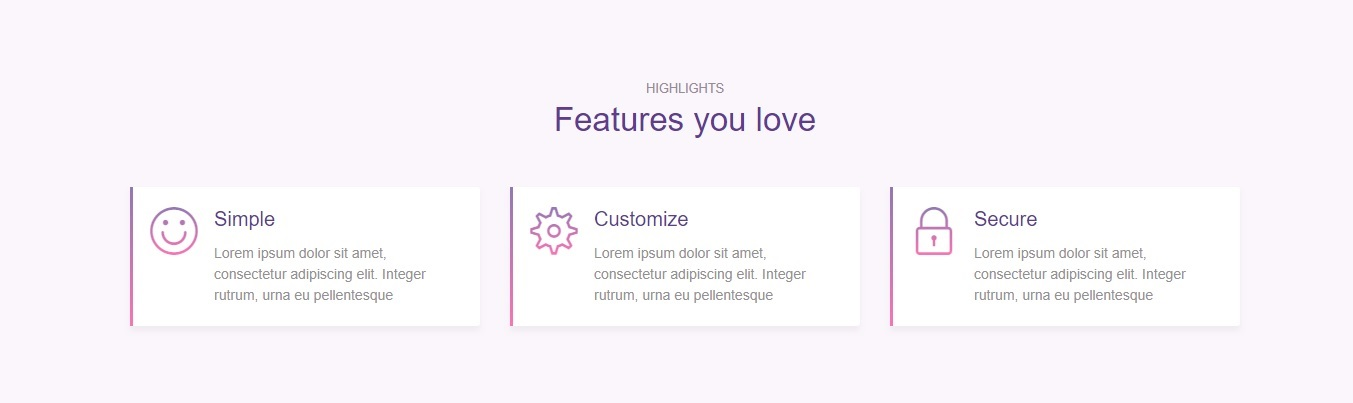
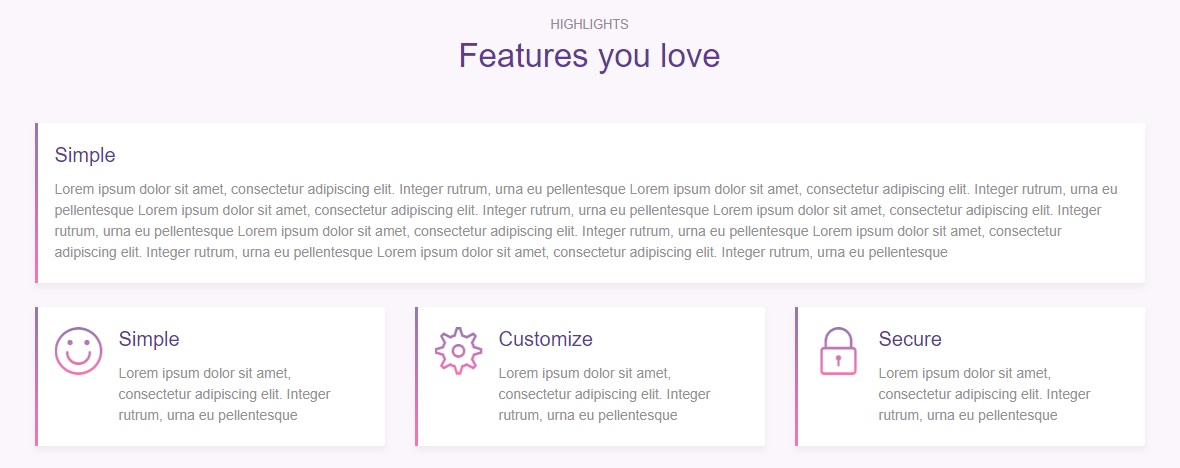
[VERSION] 1.1.0

diff --git a/Resources/Private/Templates/Base/Configuration.html b/Resources/Private/Templates/Base/Configuration.html
@@ -115,9 +115,9 @@
 			<div class="row">
 				<div class="col-sm-6">
 					<div class="panel panel-info">
-						<div class="panel-heading">Highlights</div>
+						<div class="panel-heading">Feature Cards</div>
 						<div class="panel-body">
-							<img src="../typo3conf/ext/t3themes_mobapp/Resources/Public/images/Content/Highlights.jpg" alt="Highlights" class="img-responsive" />
+							<img src="../typo3conf/ext/t3themes_mobapp/Resources/Public/images/Content/Highlights.jpg" alt="Feature Cards" class="img-responsive" />
 						</div>
 					</div>
 				</div>
@@ -133,43 +133,13 @@
       <h3>Features you love</h3>
     </div>
 
-    <div class="row">
-      <div class="col-12 col-lg-4">
-        <div class="card features">
-          <div class="card-body">
-            <div class="media">
-              <span class="ti-face-smile gradient-fill ti-3x mr-3"></span>
-              <div class="media-body">
-                <h4 class="card-title">Simple</h4>
-                <p class="card-text">Lorem ipsum dolor sit amet, consectetur adipiscing elit. Integer rutrum, urna eu pellentesque </p>
-              </div>
-            </div>
-          </div>
-        </div>
-      </div>
-      <div class="col-12 col-lg-4">
-        <div class="card features">
-          <div class="card-body">
-            <div class="media">
-              <span class="ti-settings gradient-fill ti-3x mr-3"></span>
-              <div class="media-body">
-                <h4 class="card-title">Customize</h4>
-                <p class="card-text">Lorem ipsum dolor sit amet, consectetur adipiscing elit. Integer rutrum, urna eu pellentesque </p>
-              </div>
-            </div>
-          </div>
-        </div>
-      </div>
-      <div class="col-12 col-lg-4">
-        <div class="card features">
-          <div class="card-body">
-            <div class="media">
-              <span class="ti-lock gradient-fill ti-3x mr-3"></span>
-              <div class="media-body">
-                <h4 class="card-title">Secure</h4>
-                <p class="card-text">Lorem ipsum dolor sit amet, consectetur adipiscing elit. Integer rutrum, urna eu pellentesque </p>
-              </div>
-            </div>
+    <div class="card features">
+      <div class="card-body">
+        <div class="media">
+          <span class="ti-face-smile gradient-fill ti-3x mr-3"></span>
+          <div class="media-body">
+            <h4 class="card-title">Simple</h4>
+            <p class="card-text">Lorem ipsum dolor sit amet, consectetur adipiscing elit. Integer rutrum, urna eu pellentesque </p>
           </div>
         </div>
       </div>
@@ -188,23 +158,16 @@
       <div class="row">
         <div class="col-sm-6">
           <div class="panel panel-info">
-            <div class="panel-heading">Features</div>
+            <div class="panel-heading">Feature Tabs</div>
             <div class="panel-body">
-              <img src="../typo3conf/ext/t3themes_mobapp/Resources/Public/images/Content/Features.jpg" alt="Features" class="img-responsive" />
+              <img src="../typo3conf/ext/t3themes_mobapp/Resources/Public/images/Content/Features.jpg" alt="Feature Tabs" class="img-responsive" />
             </div>
           </div>
         </div>
         <div class="col-sm-6">
           <div class="panel panel-default">
             <div class="panel-body">
-              <f:if condition="t3contentLoaded"><em>t3content element not yet done.</em></f:if>
               <textarea rows="10" name="" class="form-control" style="color:#02ff00;background:#212121;"><div class="section light-bg">
-  <div class="container">
-    <div class="section-title">
-      <small>FEATURES</small>
-      <h3>Do more with our app</h3>
-    </div>
-    
     <ul class="nav nav-tabs nav-justified" role="tablist">
       <li class="nav-item">
         <a class="nav-link active" data-toggle="tab" href="#communication">Communication</a>
@@ -227,12 +190,8 @@
             
             <h2>Communicate with ease</h2>
             <p class="lead">Uniquely underwhelm premium outsourcing with proactive leadership skills. </p>
-            <p>Lorem ipsum dolor sit amet, consectetur adipiscing elit. Integer rutrum, urna eu pellentesque pretium, nisi nisi fermentum enim, et sagittis dolor nulla vel sapien. Vestibulum sit amet mattis ante. Ut placerat dui eu nulla
-              congue tincidunt ac a nibh. Mauris accumsan pulvinar lorem placerat volutpat. Praesent quis facilisis elit. Sed condimentum neque quis ex porttitor,
-            </p>
-            <p> malesuada faucibus augue aliquet. Sed elit est, eleifend sed dapibus a, semper a eros. Vestibulum blandit vulputate pharetra. Phasellus lobortis leo a nisl euismod, eu faucibus justo sollicitudin. Mauris consectetur, tortor
-              sed tempor malesuada, sem nunc porta augue, in dictum arcu tortor id turpis. Proin aliquet vulputate aliquam.
-            </p>
+            <p>Lorem ipsum dolor sit amet, consectetur adipiscing elit. Integer rutrum, urna eu pellentesque pretium, nisi nisi fermentum enim, et sagittis dolor nulla vel sapien. Vestibulum sit amet mattis ante. Ut placerat dui eu nulla lorem placerat volutpat. Praesent quis facilisis elit. Sed condimentum neque quis ex porttitor,</p>
+            <p> malesuada faucibus augue aliquet. Sed elit est, eleifend sed dapibus a, semper a eros. Vestibulum blandit vulputate pharetra. Phasellus lobortis leo a nisl euismod, eu faucibus justo sollicitudin. Mauris consectetur, tortor arcu tortor id turpis. Proin aliquet vulputate aliquam.</p>
           </div>
         </div>
       </div>
@@ -241,12 +200,8 @@
           <div>
             <h2>Scheduling when you want</h2>
             <p class="lead">Uniquely underwhelm premium outsourcing with proactive leadership skills. </p>
-            <p>Lorem ipsum dolor sit amet, consectetur adipiscing elit. Integer rutrum, urna eu pellentesque pretium, nisi nisi fermentum enim, et sagittis dolor nulla vel sapien. Vestibulum sit amet mattis ante. Ut placerat dui eu nulla
-              congue tincidunt ac a nibh. Mauris accumsan pulvinar lorem placerat volutpat. Praesent quis facilisis elit. Sed condimentum neque quis ex porttitor,
-            </p>
-            <p> malesuada faucibus augue aliquet. Sed elit est, eleifend sed dapibus a, semper a eros. Vestibulum blandit vulputate pharetra. Phasellus lobortis leo a nisl euismod, eu faucibus justo sollicitudin. Mauris consectetur, tortor
-              sed tempor malesuada, sem nunc porta augue, in dictum arcu tortor id turpis. Proin aliquet vulputate aliquam.
-            </p>
+            <p>Lorem ipsum dolor sit amet, consectetur adipiscing elit. Integer rutrum, urna eu pellentesque pretium, nisi nisi fermentum enim, et sagittis dolor nulla vel sapien. Vestibulum sit amet mattis ante. Ut placerat dui eu nulla lorem placerat volutpat. Praesent quis facilisis elit. Sed condimentum neque quis ex porttitor,</p>
+            <p> malesuada faucibus augue aliquet. Sed elit est, eleifend sed dapibus a, semper a eros. Vestibulum blandit vulputate pharetra. Phasellus lobortis leo a nisl euismod, eu faucibus justo sollicitudin. Mauris consectetur, tortor arcu tortor id turpis. Proin aliquet vulputate aliquam.</p>
           </div>
           <img src="/typo3conf/ext/t3themes_mobapp/Resources/Public/images/graphic.png" alt="graphic" class="img-fluid rounded align-self-start mr-lg-5 mb-5 mb-lg-0">
         </div>
@@ -258,11 +213,9 @@
             <h2>Realtime Messaging service</h2>
             <p class="lead">Uniquely underwhelm premium outsourcing with proactive leadership skills. </p>
             <p>Lorem ipsum dolor sit amet, consectetur adipiscing elit. Integer rutrum, urna eu pellentesque pretium, nisi nisi fermentum enim, et sagittis dolor nulla vel sapien. Vestibulum sit amet mattis ante. Ut placerat dui eu nulla
-              congue tincidunt ac a nibh. Mauris accumsan pulvinar lorem placerat volutpat. Praesent quis facilisis elit. Sed condimentum neque quis ex porttitor,
-            </p>
+              congue tincidunt ac a nibh. Mauris accumsan pulvinar lorem placerat volutpat. Praesent quis facilisis elit. Sed condimentum neque quis ex porttitor,</p>
             <p> malesuada faucibus augue aliquet. Sed elit est, eleifend sed dapibus a, semper a eros. Vestibulum blandit vulputate pharetra. Phasellus lobortis leo a nisl euismod, eu faucibus justo sollicitudin. Mauris consectetur, tortor
-              sed tempor malesuada, sem nunc porta augue, in dictum arcu tortor id turpis. Proin aliquet vulputate aliquam.
-            </p>
+              sed tempor malesuada, sem nunc porta augue, in dictum arcu tortor id turpis. Proin aliquet vulputate aliquam.</p>
           </div>
         </div>
       </div>
@@ -272,11 +225,9 @@
             <h2>Live chat when you needed</h2>
             <p class="lead">Uniquely underwhelm premium outsourcing with proactive leadership skills. </p>
             <p>Lorem ipsum dolor sit amet, consectetur adipiscing elit. Integer rutrum, urna eu pellentesque pretium, nisi nisi fermentum enim, et sagittis dolor nulla vel sapien. Vestibulum sit amet mattis ante. Ut placerat dui eu nulla
-              congue tincidunt ac a nibh. Mauris accumsan pulvinar lorem placerat volutpat. Praesent quis facilisis elit. Sed condimentum neque quis ex porttitor,
-            </p>
+              congue tincidunt ac a nibh. Mauris accumsan pulvinar lorem placerat volutpat. Praesent quis facilisis elit. Sed condimentum neque quis ex porttitor,</p>
             <p> malesuada faucibus augue aliquet. Sed elit est, eleifend sed dapibus a, semper a eros. Vestibulum blandit vulputate pharetra. Phasellus lobortis leo a nisl euismod, eu faucibus justo sollicitudin. Mauris consectetur, tortor
-              sed tempor malesuada, sem nunc porta augue, in dictum arcu tortor id turpis. Proin aliquet vulputate aliquam.
-            </p>
+              sed tempor malesuada, sem nunc porta augue, in dictum arcu tortor id turpis. Proin aliquet vulputate aliquam.</p>
           </div>
           <img src="/typo3conf/ext/t3themes_mobapp/Resources/Public/images/graphic.png" alt="graphic" class="img-fluid rounded align-self-start mr-lg-5 mb-5 mb-lg-0">
         </div>
@@ -296,7 +247,7 @@
 			<div class="row">
 				<div class="col-sm-6">
 					<div class="panel panel-info">
-						<div class="panel-heading">Testimonials</div>
+						<div class="panel-heading">Testimonials Slider</div>
 						<div class="panel-body">
 							<img src="../typo3conf/ext/t3themes_mobapp/Resources/Public/images/Content/Testimonials.jpg" alt="Testimonials" class="img-responsive" />
 						</div>
@@ -346,7 +297,7 @@
 			<div class="row">
 				<div class="col-sm-6">
 					<div class="panel panel-info">
-						<div class="panel-heading">Gallery</div>
+						<div class="panel-heading">Gallery Slider</div>
 						<div class="panel-body">
 							<img src="../typo3conf/ext/t3themes_mobapp/Resources/Public/images/Content/Gallery.jpg" alt="Gallery" class="img-responsive" />
 						</div>
@@ -472,6 +423,7 @@
 				<div class="col-sm-6">
 					<div class="panel panel-default">
 						<div class="panel-body">
+              <em>Can be implemented by an extension or content element.</em>
 							<textarea rows="10" name="" class="form-control" style="color:#02ff00;background:#212121;"><div class="light-bg py-5">
   <div class="container">
     <div class="row">

diff --git a/Resources/Private/Partials/Page/Structure/Footer.html b/Resources/Private/Partials/Page/Structure/Footer.html
@@ -34,9 +34,16 @@
 
     <f:section name="LayoutInner">
 
-        <f:if condition="{t3themesConf.colPos1}">
-            <f:cObject typoscriptObjectPath="lib.dynamicContentSlide" data="{pageUid: '{data.uid}', colPos: '{t3themesConf.colPos1}'}" />
-        </f:if>
+        <small>
+            <f:if condition="{t3themesConf.colPos1}">
+                <f:cObject typoscriptObjectPath="lib.dynamicContentSlide" data="{pageUid: '{data.uid}', colPos: '{t3themesConf.colPos1}'}" />
+            </f:if>
+            <f:if condition="{navigationFooter}">
+                    <f:for each="{navigationFooter}" as="navItem">
+                        <f:link.page class="m-2 text-uppercase" pageUid="{navItem.uid}">{navItem.title}</f:link.page>
+                    </f:for>
+            </f:if>
+        </small>
 
     </f:section>
 

diff --git a/ext_emconf.php b/ext_emconf.php
@@ -13,15 +13,15 @@ $EM_CONF[$_EXTKEY] = [
     'uploadfolder' => '0',
     'createDirs' => '',
     'clearCacheOnLoad' => 0,
-    'version' => '1.0.0',
+    'version' => '1.1.0',
     'constraints' => [
         'depends' => [
             'typo3' => '7.6.18-9.99.99',
-            't3cms' => '2.0.1-0.0.0',
+            't3cms' => '2.0.1'
         ],
         'conflicts' => [],
         'suggests' => [
-            't3content_mobapp' => '2.2.0-0.0.0',
+            't3content_mobapp' => '2.2.0'
         ],
     ],
 ];

diff --git a/README.md b/README.md
@@ -5,7 +5,7 @@ This is a ready to use template for TYPO3. Together with EXT:t3cms you have an e
 ### General Information ###
 
 * t3themes_mobapp
-* v1.0.0
+* v1.1.0
 
 ### How do I get set up? ###
 
